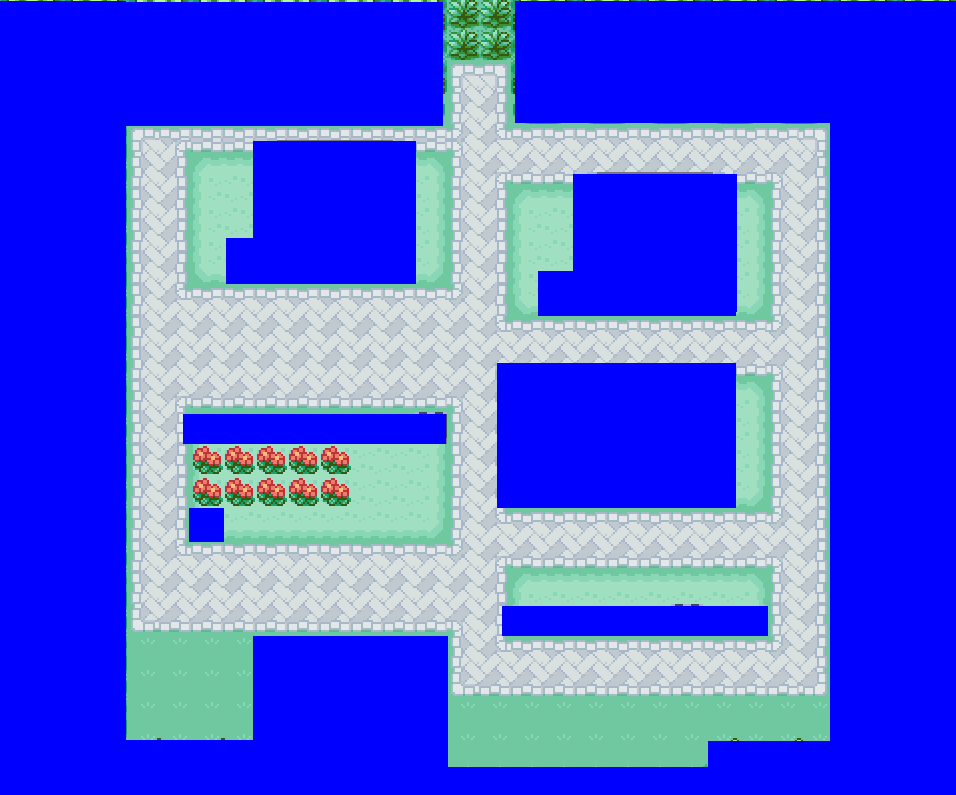
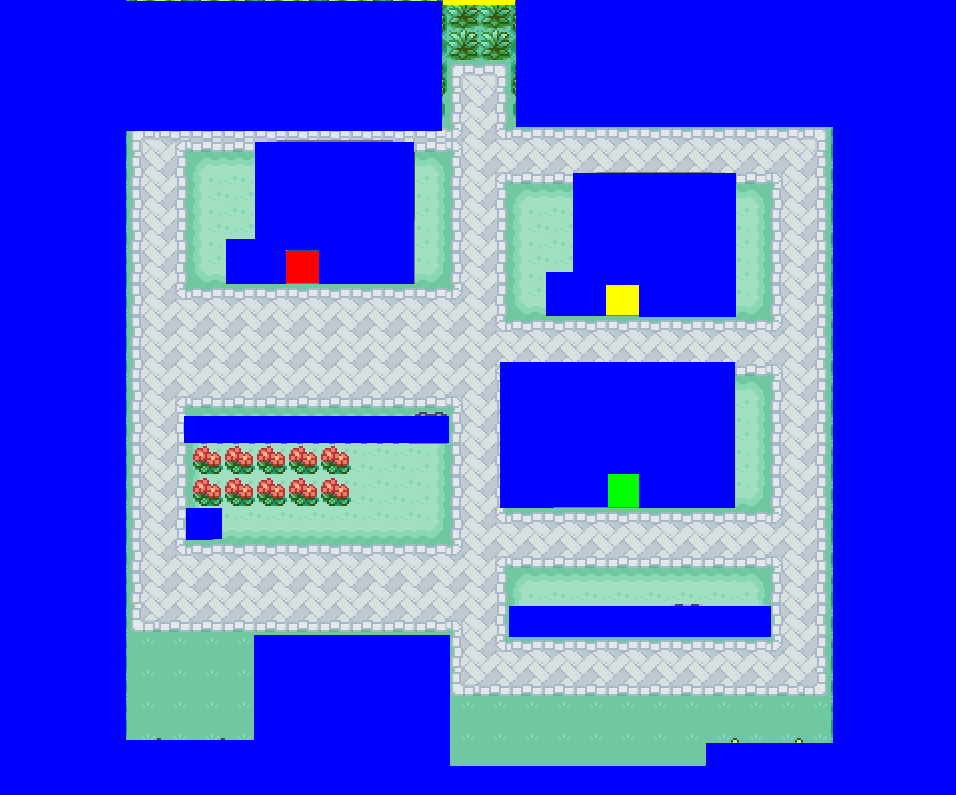
Added lab picture

diff --git a/src/MasseyMon.java b/src/MasseyMon.java
@@ -36,6 +36,7 @@ public class MasseyMon extends JFrame {
 }
 
 class GamePanel extends JPanel{
+	private boolean lab;
 	private boolean pokemon;
 	private boolean bag;
 	private boolean menu;
@@ -44,6 +45,7 @@ class GamePanel extends JPanel{
 	private Image back;
 	private BufferedImage mask;
 	private boolean[] keys;
+	Houses myHouse;
 	Textbox myTextBox;
 	PokemonMenu myPokeMenu;
 	Items myItem;
@@ -51,6 +53,7 @@ class GamePanel extends JPanel{
 	Player myGuy;
 	public static final int IDLE = 0, UP = 1, RIGHT = 4, DOWN = 7, LEFT = 10;
 	public GamePanel() throws IOException {
+		lab = false;
 		pokemon = false;
 		bag = false;
 		menu = false;
@@ -60,6 +63,7 @@ class GamePanel extends JPanel{
 		myMenu = new Menu();
 		myItem = new Items();
 		myTextBox = new Textbox();
+		myHouse = new Houses();
         try {
     		back = ImageIO.read(new File("Images/Towns/palletTown.png"));
     		mask = ImageIO.read(new File("Images/Towns/palletTownMask.png"));
@@ -74,9 +78,10 @@ class GamePanel extends JPanel{
         requestFocus();
         ready = true;
     }
-    public void paintComponent(Graphics g){    	
-    	g.drawImage(back,0,0,this);
-    	myGuy.draw(g);
+    public void paintComponent(Graphics g){
+		if (!lab) {
+			g.drawImage(back, 0, 0, this);
+		}
 		if (menu) {
 			Menu.display(g);
 			if (bag){
@@ -86,6 +91,10 @@ class GamePanel extends JPanel{
 				PokemonMenu.display(g);
 			}
 		}
+		if(lab){
+			Houses.displayLab(g);
+		}
+		myGuy.draw(g);
 	}
 
     class clickListener implements MouseListener{
@@ -163,16 +172,23 @@ class GamePanel extends JPanel{
 			if ((keys[KeyEvent.VK_UP] || keys[KeyEvent.VK_W]) && clear(Player.getPx(),Player.getPy()-1) && clear(Player.getPx()+19,Player.getPy()-1)) {
 				direction = UP;
 				myGuy.move(direction);
-			} else if ((keys[KeyEvent.VK_DOWN] || keys[KeyEvent.VK_S]) && clear(Player.getPx() + 10,Player.getPy()+27) && clear (Player.getPx()+19,Player.getPy()+27)) {
+			}
+			else if ((keys[KeyEvent.VK_UP] || keys[KeyEvent.VK_W]) && profDoor(Player.getPx(),Player.getPy()-1) && profDoor(Player.getPx()+19,Player.getPy()-1)){
+				lab = true;
+			}
+			else if ((keys[KeyEvent.VK_DOWN] || keys[KeyEvent.VK_S]) && clear(Player.getPx() + 10,Player.getPy()+27) && clear (Player.getPx()+19,Player.getPy()+27)) {
 				direction = DOWN;
 				myGuy.move(direction);
-			} else if ((keys[KeyEvent.VK_RIGHT] || keys[KeyEvent.VK_D]) && clear(Player.getPx() + 20,Player.getPy()) && clear (Player.getPx() + 20,Player.getPy()+26)) {
+			}
+			else if ((keys[KeyEvent.VK_RIGHT] || keys[KeyEvent.VK_D]) && clear(Player.getPx() + 20,Player.getPy()) && clear (Player.getPx() + 20,Player.getPy()+26)) {
 				direction = RIGHT;
 				myGuy.move(direction);
-			} else if ((keys[KeyEvent.VK_LEFT] || keys[KeyEvent.VK_A]) && clear(Player.getPx() - 1,Player.getPy()) && clear (Player.getPx() -1, Player.getPy()+26)) {
+			}
+			else if ((keys[KeyEvent.VK_LEFT] || keys[KeyEvent.VK_A]) && clear(Player.getPx() - 1,Player.getPy()) && clear (Player.getPx() -1, Player.getPy()+26)) {
 				direction = LEFT;
 				myGuy.move(direction);
-			} else {
+			}
+			else {
 				myGuy.resetExtra();
 				myGuy.idle(direction);
 			}
@@ -187,5 +203,15 @@ class GamePanel extends JPanel{
 		int c = mask.getRGB(x, y);
 		return c != WALL;
 	}
+
+	private boolean profDoor(int x, int y){
+		int Wall = 0xFF00FF00;
+		if(x<0 || x>= mask.getWidth(null) || y<0 || y>= mask.getHeight(null)){
+			return false;
+		}
+		int c = mask.getRGB(x, y);
+		return c != Wall;
+	}
+
 	public boolean getMenu(){return menu;}
 }

diff --git a/src/Player.java b/src/Player.java
@@ -1,10 +1,6 @@
 import java.awt.*;
-import java.awt.event.*;
-import javax.swing.*;
-import java.awt.image.*; 
 import java.io.*; 
 import javax.imageio.*;
-import java.util.*;
 
 public class Player {
 	public static final int BOY = 0, GIRL = 1, UP = 1, RIGHT = 4, DOWN = 7, LEFT = 10, IDLE = 0;
@@ -14,7 +10,7 @@ public class Player {
 
 	public Player(int gen) {
 		px = 285;
-		py = 280;
+		py = 285;
 		frame = 6;
 		extra = 0;
 		wait = 0;

diff --git a/src/Houses.java b/src/Houses.java
@@ -1,0 +1,16 @@
+import javax.imageio.ImageIO;
+import java.awt.*;
+import java.io.File;
+import java.io.IOException;
+
+public class Houses {
+    private static Image oakLab;
+
+    public Houses() throws IOException {
+        oakLab = ImageIO.read(new File("Images/Buildings/ProfessorOakLab.png"));
+    }
+
+    public static void displayLab (Graphics g){
+        g.drawImage(oakLab,0,0,null);
+    }
+}
